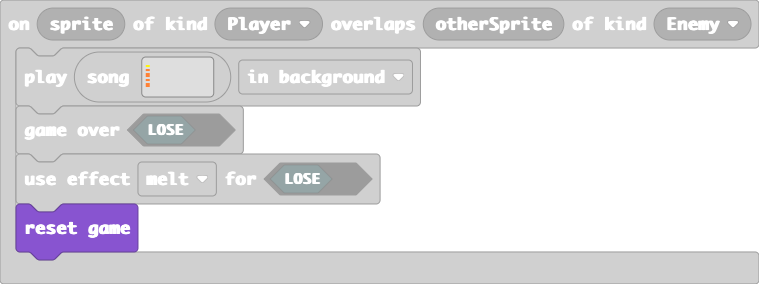
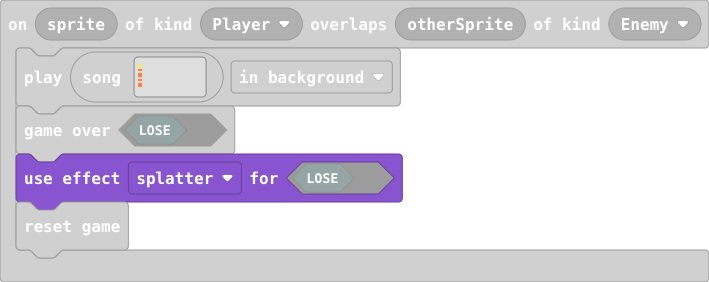
Update main.blocks, main.ts

diff --git a/main.ts b/main.ts
@@ -192,7 +192,7 @@ function game2 () {
 sprites.onOverlap(SpriteKind.Player, SpriteKind.Enemy, function (sprite, otherSprite) {
[1 lines of base64/hex data omitted]
     game.gameOver(false)
-    game.setGameOverEffect(false, effects.melt)
+    game.setGameOverEffect(false, effects.splatter)
     game.reset()
 })
 let crosshair: Sprite = null
